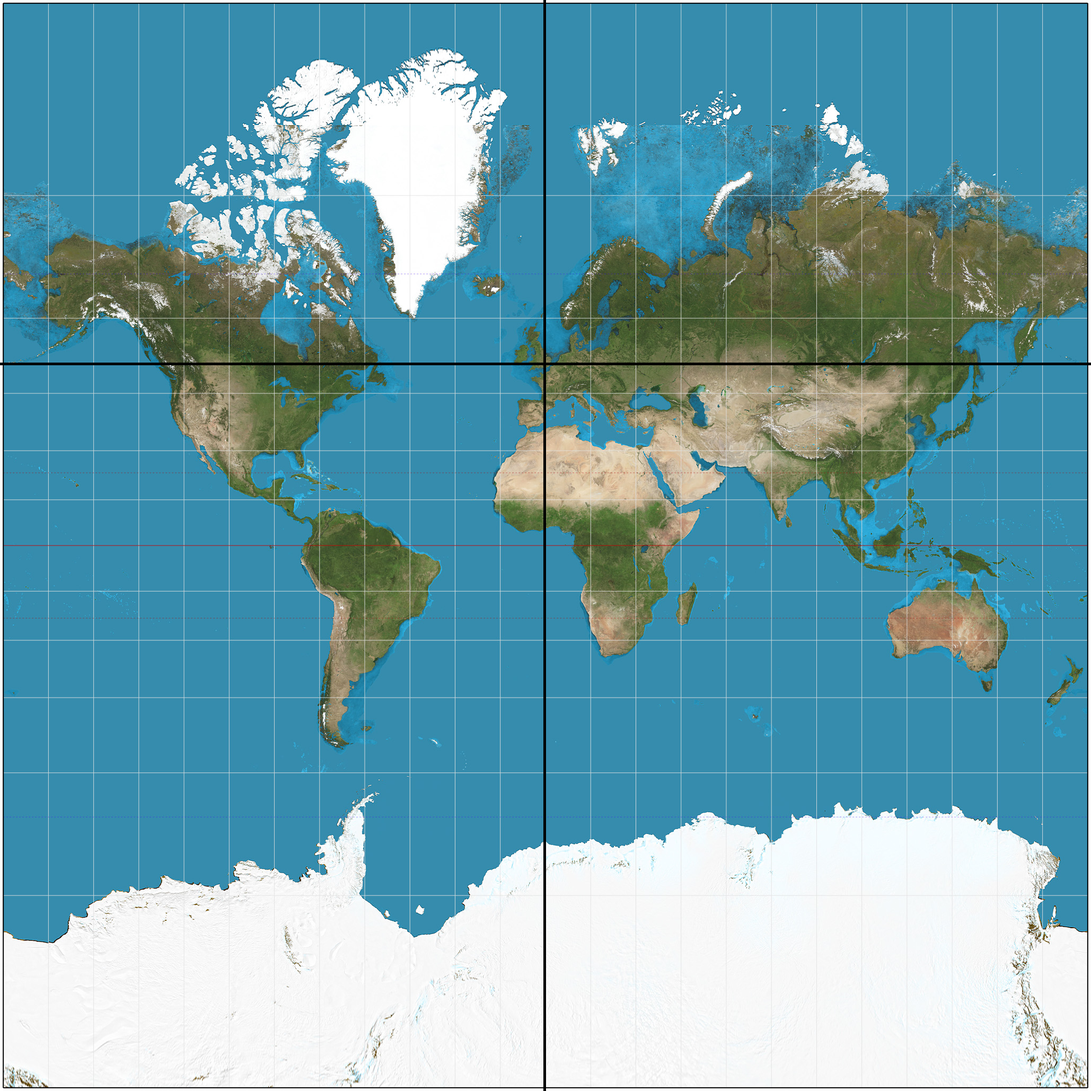
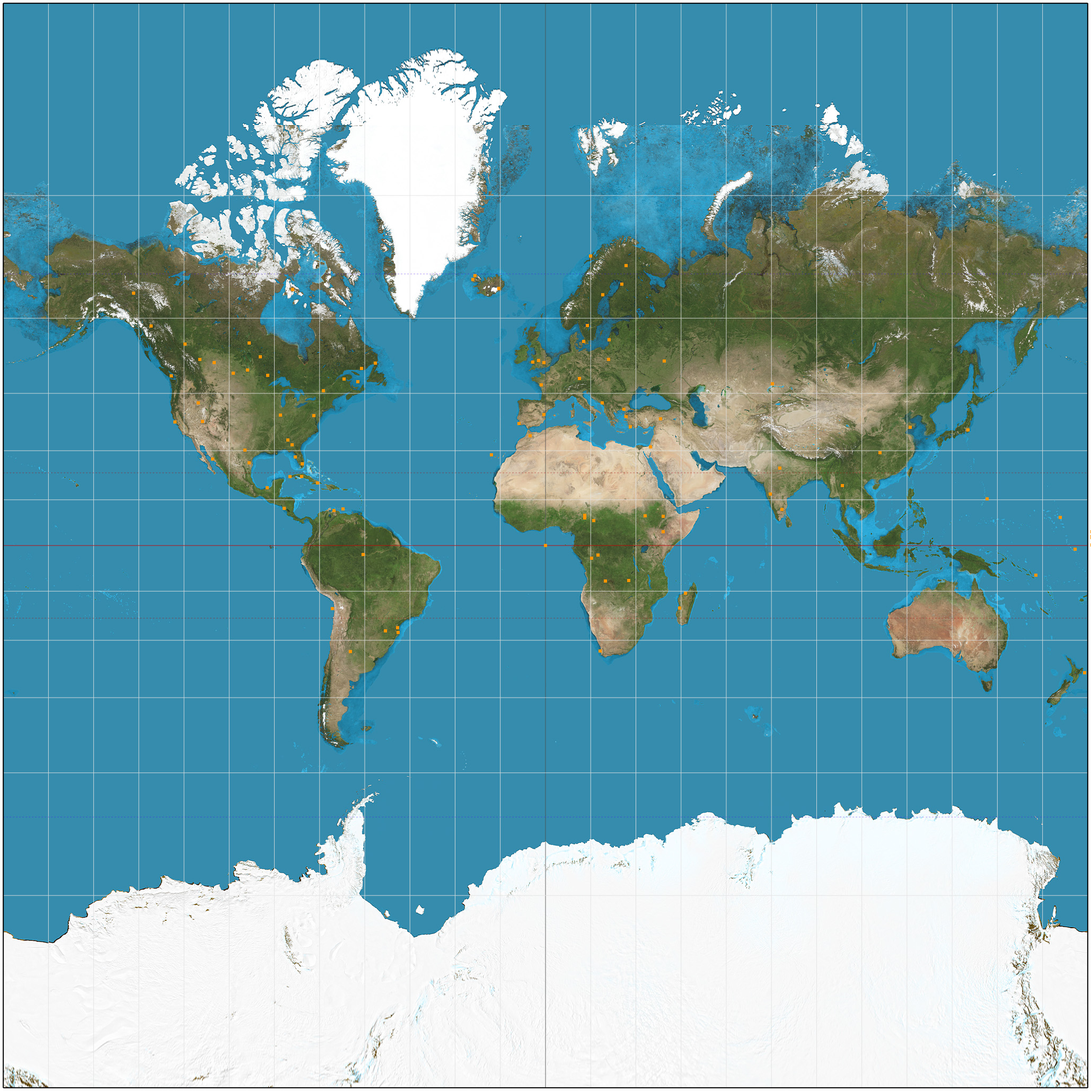
Crated printProjection for visualizer class

Changed region(s): [[0.4976, 0.311, 0.5598, 0.3421], [0.2177, 0.311, 0.2488, 0.3421]]

diff --git a/graph.h b/graph.h
@@ -14,16 +14,16 @@
 using namespace std;
 class Graph
 {
-private:
+public:
     // EDGE CLASS
     class Edge
     {
     public:
         Edge(string startAirport, string endAirport, string airlineCode, int distance); // Constructor
-        string startAirport; // Starting airport ID string
-        string endAirport;   // Ending airport ID string
-        string airlineCode;  // 4 Digit OpenFlights identifier for the airline serving the route
-        int weight;          // Weight of the edge. Calculated by the distance between the start and end airport
+        string startAirport;                                                            // Starting airport ID string
+        string endAirport;                                                              // Ending airport ID string
+        string airlineCode;                                                             // 4 Digit OpenFlights identifier for the airline serving the route
+        int weight;                                                                     // Weight of the edge. Calculated by the distance between the start and end airport
     };
 
     struct LatLong
@@ -31,7 +31,24 @@ private:
         double lat; // latitude
         double lon; // longitude
     };
+    //Constructor. Takes in the name of the routes file and the name of the airport file
+    Graph(string routesFileName, string airportFileName);
+    //Copy constructor
+    Graph(Graph &other);
+    Graph();
+    void printGraph();
+    void printAirports();
 
+    // Getters to attain graph and airport to coordinate mapping
+    unordered_map<string, LatLong> getAirportsMap();
+    unordered_map<string, vector<Edge>> getGraphEdges();
+
+    // //GRAPH FUNCTIONS
+    // void insertVertex(string airportCode);
+    // void insertEdge(string firstAirport, string secondAirport, Edge edgeToInsert);
+    // vector<Edge> incidentEdges(string airportCode);
+    
+private:
     // Helper functions for constructor.
     void mapStartAirportToEdge(string routeFile);
     void mapAirportsToLatLong(string airportFile);
@@ -42,19 +59,4 @@ private:
 
     //PRIVATE VARIABLES USED FOR THE GRAPH CLASS
     unordered_map<string, vector<Edge>> graphEdges;
-
-public:
-    //Constructor. Takes in the name of the routes file and the name of the airport file
-    Graph(string routesFileName, string airportFileName);
-    void printGraph();
-    void printAirports();
-    
-    // Getters to attain graph and airport to coordinate mapping
-    unordered_map<string, LatLong> getAirportsMap();
-    unordered_map<string, vector<Edge>> getGraphEdges();
-
-    // //GRAPH FUNCTIONS
-    // void insertVertex(string airportCode);
-    // void insertEdge(string firstAirport, string secondAirport, Edge edgeToInsert);
-    // vector<Edge> incidentEdges(string airportCode);
 };

diff --git a/flightsVizualizer.cpp b/flightsVizualizer.cpp
@@ -1,47 +1,58 @@
 #include "flightsVizualizer.h"
 
-void flightsVizualizer::drawAirportsOnMap(Graph flightRoutes) 
+// CONSTRUCTOR
+flightsVizualizer::flightsVizualizer(Graph graph)
+{
+    this->graph = graph;
+    this->worldMap.readFromFile("./src/mercator.png");
+}
+
+void flightsVizualizer::drawConnection(Graph::LatLong airport1, Graph::LatLong airport2)
 {
 
 }
 
+void flightsVizualizer::markAirport(double lat, double lon)
+{
+    //Height and width of the world map
+    double length = 2058;
+
+    //Calculate x and y of the airport on the worldMap
+    double x = (lon + 180) * (length / 360);
+    double y = (length / 2) - ((length * log(tan((PI / 4) + ((lat * (PI / 180)) / 2)))) / (2 * PI));
+
+    cout << "x=" << x << "y=" << y;
+
+    for(int i = -3; i < 3; ++i)
+    {
+        for(int j = -3; j < 3; ++j)
+        {
+            cs225::HSLAPixel& targetPixel = worldMap.getPixel(x + i, y + j);
+            targetPixel.l = 0.5;
+            targetPixel.h = 35;
+            targetPixel.s = 1;
+        }
+    }
+}
+
 void flightsVizualizer::printProjection()
 {
-    //HEATHROW AIPORT LONGITUDE AND LATTITUDE TEST
-    double lat = 51.4700;
-    double lon = -0.4543;
+    unordered_map<string, Graph::LatLong> airportsMap = this->graph.getAirportsMap();
 
-    //Height and width of the world map
-    double height = 2056;
-    double width = 2056;
-
-    double x = (lon + 180) * (width / 360);
-    double y = (height / 2) - ((width * log(tan((PI / 4) + ((lat * (PI / 180)) / 2)))) / (2 * PI));
-
-    //Create a PNG image based on src/worldmap.png
-    cs225::PNG worldMap;
-    worldMap.readFromFile("./src/mercator.png");
-
-    for (int i = 0; i < (int)worldMap.height(); ++i)
+    int counter = 0;
+    auto iterator = airportsMap.begin();
+    while(counter < 100)
     {
-        for (int j = 0; j < 5; ++j)
-        {
-            cs225::HSLAPixel &heathrowPixel = worldMap.getPixel(x + j, i);
-            heathrowPixel.l = 0;
-        }
+        double lat = (iterator->second).lat;
+        double lon = (iterator->second).lon;
+
+        // cout << iterator->first << "Long Lat " << (iterator->second).lat << (iterator->second).lon << endl;
+        cout << iterator->first; 
+        markAirport(lat, lon);
+        cout << "lat=" << lat << "long=" << lon << endl;
+        iterator++;
+        counter++;
     }
 
-    for (int i = 0; i < (int)worldMap.width(); ++i)
-    {
-        for (int j = 0; j < 5; ++j)
-        {
-            cs225::HSLAPixel &heathrowPixel = worldMap.getPixel(i, y + j);
-            heathrowPixel.l = 0;
-        }
-    }
-
-    cout << x << " y " << y << endl;
-
-    //Test output
     worldMap.writeToFile("heathrow.png");
 }

diff --git a/graph.cpp b/graph.cpp
@@ -8,6 +8,10 @@ Graph::Edge::Edge(string startAirport, string endAirport, string airlineCode, in
     this->airlineCode = airlineCode;
     this->weight = distance;
 }
+Graph::Graph()
+{
+
+}
 
 // GRAPH CLASS CONSTRUCTOR
 Graph::Graph(string routesFileName, string airportFileName)
@@ -17,6 +21,12 @@ Graph::Graph(string routesFileName, string airportFileName)
     mapAirportsToLatLong(airportFileName);
     // // Populates graphMap:
     mapStartAirportToEdge(routesFileName);
+}
+
+Graph::Graph(Graph& other)
+{
+    this->airportsMap = other.getAirportsMap();
+    this->graphEdges = other.getGraphEdges();
 }
 
 void Graph::mapStartAirportToEdge(string routeFile)
@@ -177,3 +187,5 @@ unordered_map<string, vector<Graph::Edge>> Graph::getGraphEdges()
 {
     return graphEdges;
 }
+
+

diff --git a/flightsVizualizer.h b/flightsVizualizer.h
@@ -1,14 +1,24 @@
 #include "graph.h"
+#include "cs225/PNG.h"
 
 #pragma once
 
 using namespace std;
 class flightsVizualizer
 {
-    private:
+public:
+    //Constructor takes in a graph object
+    flightsVizualizer(Graph graph);
 
-    public:
-        void drawAirportsOnMap(Graph flightRoutes);
+    //Helper function to draw a circle to represent an airport given its lattitude and longitude
+    void markAirport(double lat, double lon);
 
-        void printProjection();
+    //Outputs the worldMap as a PNG
+    void printProjection();
+
+    void drawConnection(Graph::LatLong airport1, Graph::LatLong airport2);
+
+private:
+    Graph graph;
+    cs225::PNG worldMap;
 };

diff --git a/main.cpp b/main.cpp
@@ -12,7 +12,10 @@ int main(int argc, char *argv[]) {
     // newGraph.printAirports();
     // newGraph.printGraph();
 
-    flightsVizualizer vizualizer;
+    flightsVizualizer vizualizer(newGraph);
+    double lat = 51.4700;
+    double lon = -0.4543;
+    vizualizer.markAirport(lat, lon);
     vizualizer.printProjection();
 
     return 0;
